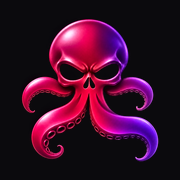
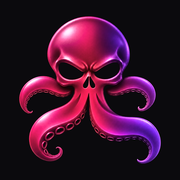
Grade skull-octopus emblem to calmer satin to match mafium.com palette
- Apply calmer satin color grade across hero, navbar squircle, apple-touch, PWA, OG card, and outlined favicons (lightly lifted for tab legibility)
- Flatten oddmeter/icon.svg backdrop to #0b0a0d with neutral hairline border and satin crimson-violet fill
- Bump asset cache-busters to ?v=8 / home.css?v=21 / brand8 across all pages

Changed region(s): [[0.0833, 0.0833, 0.9167, 0.9167]]

diff --git a/index.html b/index.html
@@ -20,21 +20,21 @@
   <meta property="og:title" content="Saad MAFiA — mafium">
   <meta property="og:description" content="Saad MAFiA — Music, Science, Games, and Photography.">
   <meta property="og:url" content="https://mafium.com/">
-  <meta property="og:image" content="https://mafium.com/images/brand/og-image.png?v=7">
+  <meta property="og:image" content="https://mafium.com/images/brand/og-image.png?v=8">
   <meta property="og:image:type" content="image/png">
   <meta property="og:image:width" content="1200">
   <meta property="og:image:height" content="630">
   <meta property="og:image:alt" content="Mafium skull-octopus emblem beside Saad MAFiA">
   <meta name="twitter:card" content="summary_large_image">
   <title>Saad MAFiA — mafium</title>
-  <link rel="icon" href="./images/brand/favicon-32.png?v=7" type="image/png" sizes="32x32">
-  <link rel="icon" href="./favicon.ico?v=7" sizes="48x48">
-  <link rel="apple-touch-icon" href="./images/brand/apple-touch-icon.png?v=7" sizes="180x180">
+  <link rel="icon" href="./images/brand/favicon-32.png?v=8" type="image/png" sizes="32x32">
+  <link rel="icon" href="./favicon.ico?v=8" sizes="48x48">
+  <link rel="apple-touch-icon" href="./images/brand/apple-touch-icon.png?v=8" sizes="180x180">
   <link rel="manifest" href="./site.webmanifest">
   <link rel="preconnect" href="https://fonts.googleapis.com">
   <link rel="preconnect" href="https://fonts.gstatic.com" crossorigin>
   <link rel="stylesheet" href="https://fonts.googleapis.com/css2?family=Lexend:wght@300..700&family=Metamorphous&display=swap">
-  <link rel="stylesheet" href="./home.css?v=20">
+  <link rel="stylesheet" href="./home.css?v=21">
   <script type="module" src="./home.js?v=15"></script>
 </head>
 <body>
@@ -81,12 +81,12 @@
       <div class="hero-copy">
         <div class="hero-emblem-wrap">
           <picture>
-            <source srcset="./images/brand/mafium-hero.avif?v=7 1x, ./images/brand/mafium-hero-2x.avif?v=7 2x" type="image/avif">
-            <source srcset="./images/brand/mafium-hero.webp?v=7 1x, ./images/brand/mafium-hero-2x.webp?v=7 2x" type="image/webp">
+            <source srcset="./images/brand/mafium-hero.avif?v=8 1x, ./images/brand/mafium-hero-2x.avif?v=8 2x" type="image/avif">
+            <source srcset="./images/brand/mafium-hero.webp?v=8 1x, ./images/brand/mafium-hero-2x.webp?v=8 2x" type="image/webp">
             <img
               class="hero-emblem"
-              src="./images/brand/mafium-hero.png?v=7"
-              srcset="./images/brand/mafium-hero.png?v=7 1x, ./images/brand/mafium-hero-2x.png?v=7 2x"
+              src="./images/brand/mafium-hero.png?v=8"
+              srcset="./images/brand/mafium-hero.png?v=8 1x, ./images/brand/mafium-hero-2x.png?v=8 2x"
               alt="Mafium skull-octopus emblem"
               width="240"
               height="240"

diff --git a/home.css b/home.css
@@ -233,14 +233,14 @@ a { color: inherit; }
   block-size: 30px;
   flex-shrink: 0;
   border-radius: 7px;
-  background-image: url("./images/brand/mafium-icon.png?v=7");
+  background-image: url("./images/brand/mafium-icon.png?v=8");
   background-image: image-set(
-    url("./images/brand/mafium-icon.avif?v=7") type("image/avif") 1x,
-    url("./images/brand/mafium-icon-2x.avif?v=7") type("image/avif") 2x,
-    url("./images/brand/mafium-icon.webp?v=7") type("image/webp") 1x,
-    url("./images/brand/mafium-icon-2x.webp?v=7") type("image/webp") 2x,
-    url("./images/brand/mafium-icon.png?v=7") type("image/png") 1x,
-    url("./images/brand/mafium-icon-2x.png?v=7") type("image/png") 2x
+    url("./images/brand/mafium-icon.avif?v=8") type("image/avif") 1x,
+    url("./images/brand/mafium-icon-2x.avif?v=8") type("image/avif") 2x,
+    url("./images/brand/mafium-icon.webp?v=8") type("image/webp") 1x,
+    url("./images/brand/mafium-icon-2x.webp?v=8") type("image/webp") 2x,
+    url("./images/brand/mafium-icon.png?v=8") type("image/png") 1x,
+    url("./images/brand/mafium-icon-2x.png?v=8") type("image/png") 2x
   );
   background-size: contain;
   background-repeat: no-repeat;
@@ -1076,8 +1076,8 @@ section[tabindex="-1"]:focus { outline: none; }
   block-size: 16px;
   flex-shrink: 0;
   background-color: currentColor;
-  -webkit-mask: url("./images/brand/mafium-mark.svg?v=7") center / contain no-repeat;
-  mask: url("./images/brand/mafium-mark.svg?v=7") center / contain no-repeat;
+  -webkit-mask: url("./images/brand/mafium-mark.svg?v=8") center / contain no-repeat;
+  mask: url("./images/brand/mafium-mark.svg?v=8") center / contain no-repeat;
   opacity: 0.85;
 }
 .footer-links { display: flex; flex-wrap: wrap; gap: 18px; }

diff --git a/oddmeter/index.html b/oddmeter/index.html
@@ -19,9 +19,9 @@
   <meta property="og:image:alt" content="Oddmeter: a pixel drummer above a three-row beat and subdivision grid.">
   <meta name="twitter:card" content="summary_large_image">
   <link rel="manifest" href="./manifest.webmanifest">
-  <link rel="icon" href="../images/brand/favicon-32.png?v=7" type="image/png" sizes="32x32">
-  <link rel="icon" href="../favicon.ico?v=7" sizes="48x48">
-  <link rel="apple-touch-icon" href="../images/brand/apple-touch-icon.png?v=7" sizes="180x180">
+  <link rel="icon" href="../images/brand/favicon-32.png?v=8" type="image/png" sizes="32x32">
+  <link rel="icon" href="../favicon.ico?v=8" sizes="48x48">
+  <link rel="apple-touch-icon" href="../images/brand/apple-touch-icon.png?v=8" sizes="180x180">
   <link rel="preconnect" href="https://fonts.googleapis.com">
   <link rel="preconnect" href="https://fonts.gstatic.com" crossorigin>
   <link rel="stylesheet" href="https://fonts.googleapis.com/css2?family=Lexend:wght@400;500;600;700&display=swap">
@@ -30,8 +30,8 @@
       document.documentElement.classList.add('oddmeter-embed');
     }
   </script>
-  <link rel="stylesheet" href="./styles.css?v=drummer6-brand7">
-  <script type="module" src="./app.js?v=drummer9-brand7"></script>
+  <link rel="stylesheet" href="./styles.css?v=drummer6-brand8">
+  <script type="module" src="./app.js?v=drummer9-brand8"></script>
 </head>
 <body>
   <header class="site-header">

diff --git a/oddmeter/styles.css b/oddmeter/styles.css
@@ -186,14 +186,14 @@ select option { background: #191c24; color: var(--text); }
   height: 28px;
   flex-shrink: 0;
   border-radius: 7px;
-  background-image: url("../images/brand/mafium-icon.png?v=7");
+  background-image: url("../images/brand/mafium-icon.png?v=8");
   background-image: image-set(
-    url("../images/brand/mafium-icon.avif?v=7") type("image/avif") 1x,
-    url("../images/brand/mafium-icon-2x.avif?v=7") type("image/avif") 2x,
-    url("../images/brand/mafium-icon.webp?v=7") type("image/webp") 1x,
-    url("../images/brand/mafium-icon-2x.webp?v=7") type("image/webp") 2x,
-    url("../images/brand/mafium-icon.png?v=7") type("image/png") 1x,
-    url("../images/brand/mafium-icon-2x.png?v=7") type("image/png") 2x
+    url("../images/brand/mafium-icon.avif?v=8") type("image/avif") 1x,
+    url("../images/brand/mafium-icon-2x.avif?v=8") type("image/avif") 2x,
+    url("../images/brand/mafium-icon.webp?v=8") type("image/webp") 1x,
+    url("../images/brand/mafium-icon-2x.webp?v=8") type("image/webp") 2x,
+    url("../images/brand/mafium-icon.png?v=8") type("image/png") 1x,
+    url("../images/brand/mafium-icon-2x.png?v=8") type("image/png") 2x
   );
   background-size: contain;
   background-repeat: no-repeat;

diff --git a/zeta/index.html b/zeta/index.html
@@ -5,9 +5,9 @@
 <meta name="viewport" content="width=device-width, initial-scale=1, viewport-fit=cover">
 <meta name="description" content="Shift the Riemann zeta function so the critical line sits on the imaginary axis, watch the grid morph into the output, and check the zeros numerically.">
 <title>Zeta Shift Lab</title>
-<link rel="icon" href="../images/brand/favicon-32.png?v=7" type="image/png" sizes="32x32">
-<link rel="icon" href="../favicon.ico?v=7" sizes="48x48">
-<link rel="apple-touch-icon" href="../images/brand/apple-touch-icon.png?v=7" sizes="180x180">
+<link rel="icon" href="../images/brand/favicon-32.png?v=8" type="image/png" sizes="32x32">
+<link rel="icon" href="../favicon.ico?v=8" sizes="48x48">
+<link rel="apple-touch-icon" href="../images/brand/apple-touch-icon.png?v=8" sizes="180x180">
 <link rel="preconnect" href="https://fonts.googleapis.com">
 <link rel="preconnect" href="https://fonts.gstatic.com" crossorigin>
 <link rel="stylesheet" href="https://fonts.googleapis.com/css2?family=IBM+Plex+Mono:wght@400;500&family=IBM+Plex+Sans:ital,wght@0,400;0,500;0,600;1,400&family=STIX+Two+Text:ital,wght@0,500;0,600;1,500&display=swap">

diff --git a/oddmeter/app.js b/oddmeter/app.js
@@ -3,7 +3,7 @@ import { pulseSoundOptions, soundOptions } from './sounds.js?v=audio1';
 import { tempoBeats, rhythmPresets, parseGrouping, groupStarts, groupingChoices, editRhythmLane, snapshotBeat, pasteBeat, pasteBeats, moveBeat, insertBeat, insertBeats, deleteBeats } from './practice.js?v=delete1';
 import { readSettings, storageKey, defaultVolume, setupLinkPrefix, encodeSetupSnapshot, decodeSetupSnapshot, makeSetupLink, readSetupLink, makeIdeaLink, readIdeaParam } from './settings.js?v=delete1';
 import { authorNameFromUser, createFirebaseCloudAdapter, createIdeaStore, defaultGuestName, isDefaultIdeaTitle, orderIdeasForDisplay, readSavedAuthor, readSavedTitle, writeSavedAuthor, writeSavedTitle } from './ideas.js?v=ideas-order3';
-import { createDrummerStage, drummerStorageKey } from './drummer.js?v=drummer9-brand7';
+import { createDrummerStage, drummerStorageKey } from './drummer.js?v=drummer9-brand8';
 
 const byId = (id) => document.getElementById(id);
 const ui = {

diff --git a/chainreaction/privacy-policy.html b/chainreaction/privacy-policy.html
@@ -4,9 +4,9 @@
 <meta charset="utf-8">
 <meta name="viewport" content="width=device-width, initial-scale=1">
 <title>Chain Reaction — Privacy Policy</title>
-<link rel="icon" href="../images/brand/favicon-32.png?v=7" type="image/png" sizes="32x32">
-<link rel="icon" href="../favicon.ico?v=7" sizes="48x48">
-<link rel="apple-touch-icon" href="../images/brand/apple-touch-icon.png?v=7" sizes="180x180">
+<link rel="icon" href="../images/brand/favicon-32.png?v=8" type="image/png" sizes="32x32">
+<link rel="icon" href="../favicon.ico?v=8" sizes="48x48">
+<link rel="apple-touch-icon" href="../images/brand/apple-touch-icon.png?v=8" sizes="180x180">
 <style>
   :root { color-scheme: dark; }
   body {

diff --git a/save-firefox/index.html b/save-firefox/index.html
@@ -2,8 +2,8 @@
 <html>
     <head>
         <meta name="viewport" content="width=device-width, initial-scale=1.0, maximum-scale=1.0, user-scalable=no">
-        <link rel="icon" href="../images/brand/favicon-32.png?v=7" type="image/png" sizes="32x32">
-        <link rel="icon" href="../favicon.ico?v=7" sizes="48x48">
+        <link rel="icon" href="../images/brand/favicon-32.png?v=8" type="image/png" sizes="32x32">
+        <link rel="icon" href="../favicon.ico?v=8" sizes="48x48">
         <link rel="stylesheet" type="text/css" href="style.css">
         <link rel="preconnect" href="https://fonts.googleapis.com">
         <link rel="preconnect" href="https://fonts.gstatic.com" crossorigin>

diff --git a/privacy-policy.html b/privacy-policy.html
@@ -4,9 +4,9 @@
 <meta charset="utf-8">
 <meta name="viewport" content="width=device-width, initial-scale=1">
 <title>Chain Reaction — Privacy Policy</title>
-<link rel="icon" href="./images/brand/favicon-32.png?v=7" type="image/png" sizes="32x32">
-<link rel="icon" href="./favicon.ico?v=7" sizes="48x48">
-<link rel="apple-touch-icon" href="./images/brand/apple-touch-icon.png?v=7" sizes="180x180">
+<link rel="icon" href="./images/brand/favicon-32.png?v=8" type="image/png" sizes="32x32">
+<link rel="icon" href="./favicon.ico?v=8" sizes="48x48">
+<link rel="apple-touch-icon" href="./images/brand/apple-touch-icon.png?v=8" sizes="180x180">
 <style>
   :root { color-scheme: dark; }
   body {
